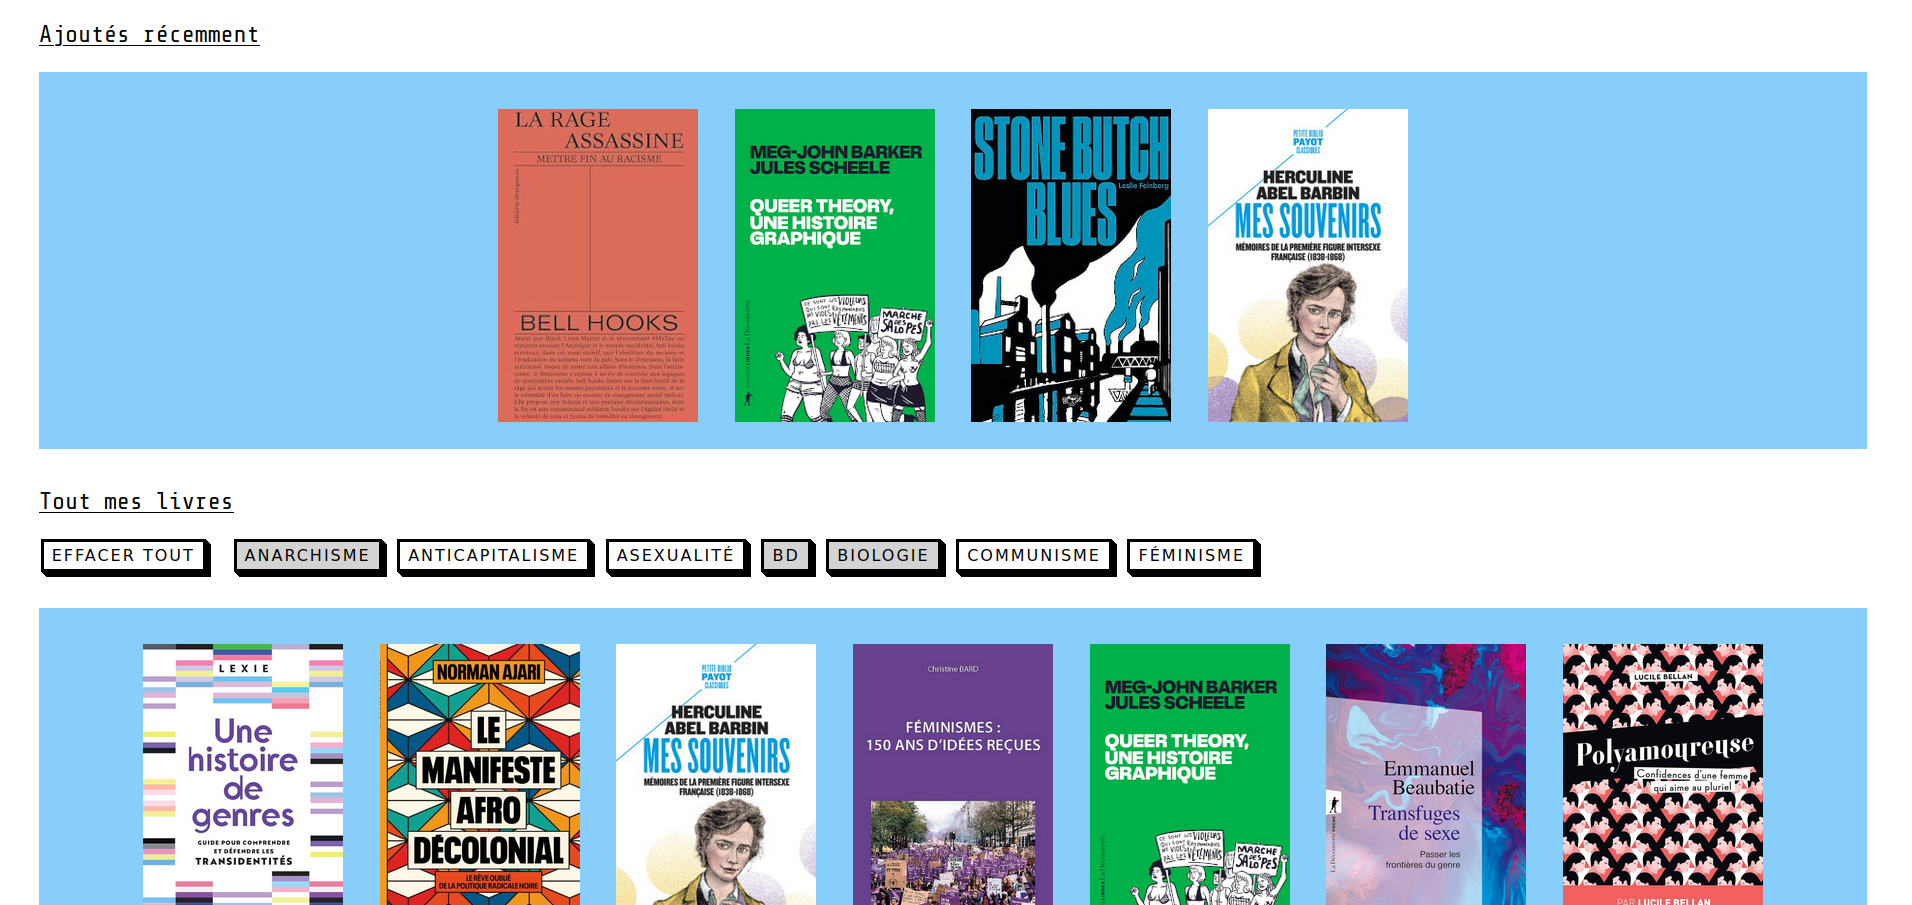
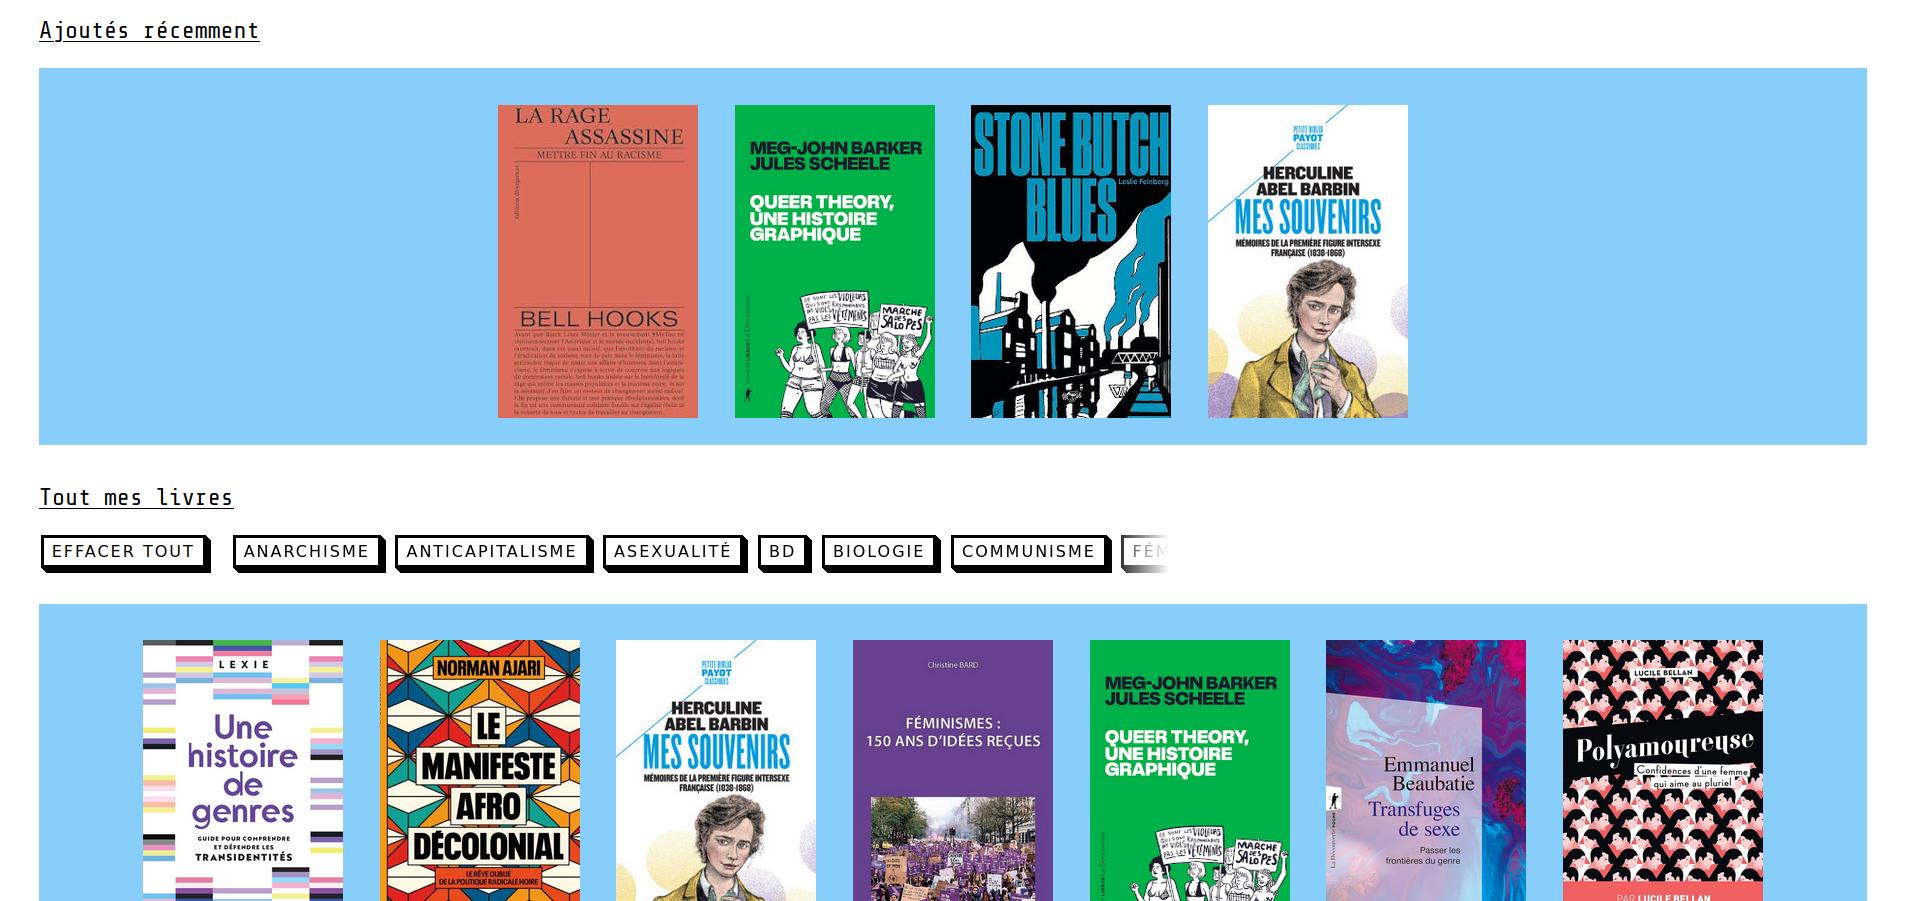
updated doc

diff --git a/bookshelf/static/js/index.js b/bookshelf/static/js/index.js
@@ -55,17 +55,20 @@ function ToogleBlurryEnd () {
     const w = TagList.clientWidth;
     const over = TagList.scrollWidth - w;
 
-    TagList.classList.toggle ("Left_Blur", true);
-    TagList.classList.toggle ("Right_Blur", true);
+    TagList.classList.toggle ("Left_Blur", false);
+    TagList.classList.toggle ("Right_Blur", false);
+    TagList.classList.toggle ("Middle_Blur", true);
 
     if(TagList.scrollLeft == over) {
 
+        TagList.classList.toggle ("Middle_Blur", false);
         TagList.classList.toggle ("Left_Blur", true);
         TagList.classList.toggle ("Right_Blur", false);
 
 
     } else if(TagList.scrollLeft == 0) {
 
+        TagList.classList.toggle ("Middle_Blur", false);
         TagList.classList.toggle ("Left_Blur", false);
         TagList.classList.toggle ("Right_Blur", true);
 

diff --git a/bookshelf/static/css/index.css b/bookshelf/static/css/index.css
@@ -35,18 +35,19 @@
 }
 
 .Left_Blur {
+
     mask-image: linear-gradient(90deg, transparent 6px, white 66px);
 }
 
 .Right_Blur {
+
     mask-image: linear-gradient(-90deg, transparent 6px, white 66px);
 }
 
 .Middle_Blur {
 
-    mask-image: linear-gradient(transparent 6px, white 66px) left,
-                linear-gradient(transparent 6px, white 66px) right;
-
+    mask-image: linear-gradient(-90deg, transparent 6px, white 66px),
+                linear-gradient(90deg, transparent 6px, white 66px);
 }
 
 #TagList {
